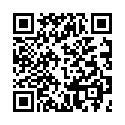
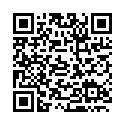
Bitcoin Payment: Clear button, Scan button, btcTimer() Updated
Clear button stops timer and hides all labels. Scan button disabled
after pressed, re-enabled with clear button.

Changed region(s): [[0.048, 0.072, 0.912, 0.912]]

diff --git a/CoffeShop/src/coffeshop/PaymentPage.java b/CoffeShop/src/coffeshop/PaymentPage.java
@@ -45,6 +45,7 @@ public class PaymentPage extends javax.swing.JFrame {
      * Creates new form Payment
      */
     boolean timeExpired;
+    boolean timeStop;
 
     public PaymentPage(MainPage mmain, int currentOrder, String mtransType, ResultSet memp, List<Button> mproducts, String mpromoCode, BigDecimal msubtotal, BigDecimal mpromo, BigDecimal mtax, BigDecimal mtotal) {
         initComponents();
@@ -76,7 +77,8 @@ public class PaymentPage extends javax.swing.JFrame {
         paymentMethod = "CA";
         payments = new ArrayList<>();
         calculateDue();
-        boolean timeExpired = false;
+        timeExpired = false;
+        timeStop = false;
     }
 
     /**
@@ -103,8 +105,8 @@ public class PaymentPage extends javax.swing.JFrame {
         jbBitcoin = new javax.swing.JPanel();
         lblQRC = new javax.swing.JLabel();
         lblBTCDue = new javax.swing.JLabel();
-        jbtnScanCode = new javax.swing.JButton();
-        jbtnSendBTC = new javax.swing.JButton();
+        btnScanBTC = new javax.swing.JButton();
+        btnClearBTC = new javax.swing.JButton();
         lblUSDtoBTC = new javax.swing.JLabel();
         lblTimer = new javax.swing.JLabel();
         jpCreditDebit = new javax.swing.JPanel();
@@ -214,17 +216,17 @@ public class PaymentPage extends javax.swing.JFrame {
 
         lblBTCDue.setFont(new java.awt.Font("Tahoma", 1, 11)); // NOI18N
 
-        jbtnScanCode.setText("Scan Code");
-        jbtnScanCode.addActionListener(new java.awt.event.ActionListener() {
+        btnScanBTC.setText("Scan Code");
+        btnScanBTC.addActionListener(new java.awt.event.ActionListener() {
             public void actionPerformed(java.awt.event.ActionEvent evt) {
-                jbtnScanCodeActionPerformed(evt);
+                btnScanBTCActionPerformed(evt);
             }
         });
 
-        jbtnSendBTC.setText("Clear");
-        jbtnSendBTC.addActionListener(new java.awt.event.ActionListener() {
+        btnClearBTC.setText("Clear");
+        btnClearBTC.addActionListener(new java.awt.event.ActionListener() {
             public void actionPerformed(java.awt.event.ActionEvent evt) {
-                jbtnSendBTCActionPerformed(evt);
+                btnClearBTCActionPerformed(evt);
             }
         });
 
@@ -239,9 +241,9 @@ public class PaymentPage extends javax.swing.JFrame {
             jbBitcoinLayout.createParallelGroup(javax.swing.GroupLayout.Alignment.LEADING)
             .addGroup(javax.swing.GroupLayout.Alignment.TRAILING, jbBitcoinLayout.createSequentialGroup()
                 .addContainerGap(javax.swing.GroupLayout.DEFAULT_SIZE, Short.MAX_VALUE)
-                .addComponent(jbtnScanCode)
+                .addComponent(btnScanBTC)
                 .addPreferredGap(javax.swing.LayoutStyle.ComponentPlacement.RELATED)
-                .addComponent(jbtnSendBTC, javax.swing.GroupLayout.PREFERRED_SIZE, 73, javax.swing.GroupLayout.PREFERRED_SIZE)
+                .addComponent(btnClearBTC, javax.swing.GroupLayout.PREFERRED_SIZE, 73, javax.swing.GroupLayout.PREFERRED_SIZE)
                 .addGap(198, 198, 198))
             .addGroup(jbBitcoinLayout.createSequentialGroup()
                 .addGap(39, 39, 39)
@@ -271,8 +273,8 @@ public class PaymentPage extends javax.swing.JFrame {
                 .addComponent(lblUSDtoBTC, javax.swing.GroupLayout.PREFERRED_SIZE, 14, javax.swing.GroupLayout.PREFERRED_SIZE)
                 .addPreferredGap(javax.swing.LayoutStyle.ComponentPlacement.RELATED)
                 .addGroup(jbBitcoinLayout.createParallelGroup(javax.swing.GroupLayout.Alignment.BASELINE)
-                    .addComponent(jbtnScanCode)
-                    .addComponent(jbtnSendBTC))
+                    .addComponent(btnScanBTC)
+                    .addComponent(btnClearBTC))
                 .addGap(21, 21, 21))
         );
 
@@ -1034,15 +1036,22 @@ public class PaymentPage extends javax.swing.JFrame {
                 int seconds = 0;
                 minutes = counter / 60;
                 seconds = counter % 60;
-                String timeString = String.format("Time Left: %02d:%02d", minutes, seconds);
+                if (timeStop){
+                    timer.cancel();
+                    timer.purge();
+                } else {
+                     String timeString = String.format("Time Left: %02d:%02d", minutes, seconds);
                 lblTimer.setText(timeString);
                 counter--;
                 if (counter == -1) {
                     timer.cancel();
+                    timer.purge();
                     lblTimer.setText("Time Expired");
                     timeExpired = true;
                     lblQRC.setIcon(defaultQR);
                 }
+                }
+               
             }
         };
         timer.scheduleAtFixedRate(task, 1000, 1000);
@@ -1059,11 +1068,18 @@ public class PaymentPage extends javax.swing.JFrame {
         txtPayAmt.setText((due.divide(new BigDecimal(split), 2, RoundingMode.HALF_UP)).toString());
     }//GEN-LAST:event_cboSplitItemStateChanged
 
-    private void jbtnSendBTCActionPerformed(java.awt.event.ActionEvent evt) {//GEN-FIRST:event_jbtnSendBTCActionPerformed
+    private void btnClearBTCActionPerformed(java.awt.event.ActionEvent evt) {//GEN-FIRST:event_btnClearBTCActionPerformed
+        btnScanBTC.setEnabled(true);
         lblQRC.setIcon(defaultQR);
-    }//GEN-LAST:event_jbtnSendBTCActionPerformed
+        lblUSDtoBTC.setText("");
+        lblBTCDue.setText("");
+        lblTimer.setText("");
+        timeStop = true;
+    }//GEN-LAST:event_btnClearBTCActionPerformed
 
-    private void jbtnScanCodeActionPerformed(java.awt.event.ActionEvent evt) {//GEN-FIRST:event_jbtnScanCodeActionPerformed
+    private void btnScanBTCActionPerformed(java.awt.event.ActionEvent evt) {//GEN-FIRST:event_btnScanBTCActionPerformed
+        timeStop = false;
+        btnScanBTC.setEnabled(false);
         btcTimer();
         String btcPay = txtPayAmt.getText();
         BigDecimal USD = new BigDecimal(btcPay);
@@ -1091,7 +1107,7 @@ public class PaymentPage extends javax.swing.JFrame {
             lblQRC.setIcon(defaultQR);
             JOptionPane.showMessageDialog(null, "Wrong QR Code. Please try again.", "Wrong QR Code", JOptionPane.PLAIN_MESSAGE);
         }
-    }//GEN-LAST:event_jbtnScanCodeActionPerformed
+    }//GEN-LAST:event_btnScanBTCActionPerformed
 
     private Boolean validatePayment() {
         switch (paymentMethod) {
@@ -1269,7 +1285,9 @@ public class PaymentPage extends javax.swing.JFrame {
     // Variables declaration - do not modify//GEN-BEGIN:variables
     private javax.swing.JButton btnCancel;
     private javax.swing.JButton btnClear;
+    private javax.swing.JButton btnClearBTC;
     private javax.swing.JButton btnPay;
+    private javax.swing.JButton btnScanBTC;
     private javax.swing.JButton btnSwipe;
     private javax.swing.ButtonGroup buttonGroup1;
     private javax.swing.JComboBox<String> cboSplit;
@@ -1313,8 +1331,6 @@ public class PaymentPage extends javax.swing.JFrame {
     private javax.swing.JButton jbtnNumAmt5;
     private javax.swing.JButton jbtnNumAmtExact;
     private javax.swing.JButton jbtnNumDot;
-    private javax.swing.JButton jbtnScanCode;
-    private javax.swing.JButton jbtnSendBTC;
     private javax.swing.JLabel jlblCardNum;
     private javax.swing.JLabel jlblGiftCardNum;
     private javax.swing.JPanel jpCash;
